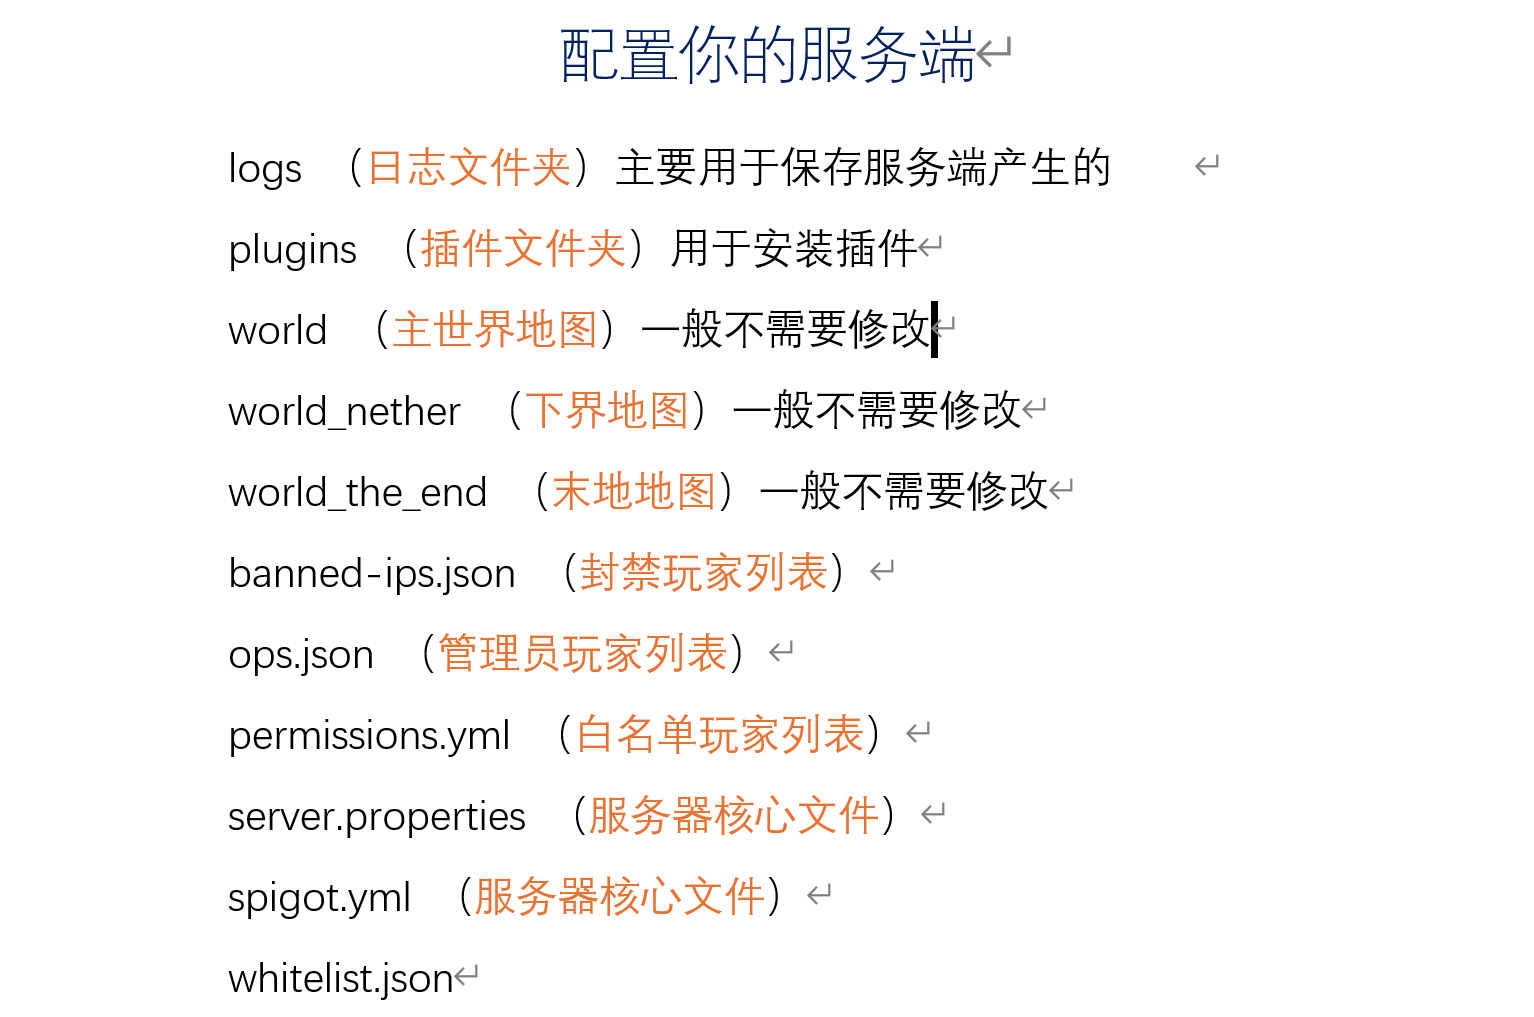
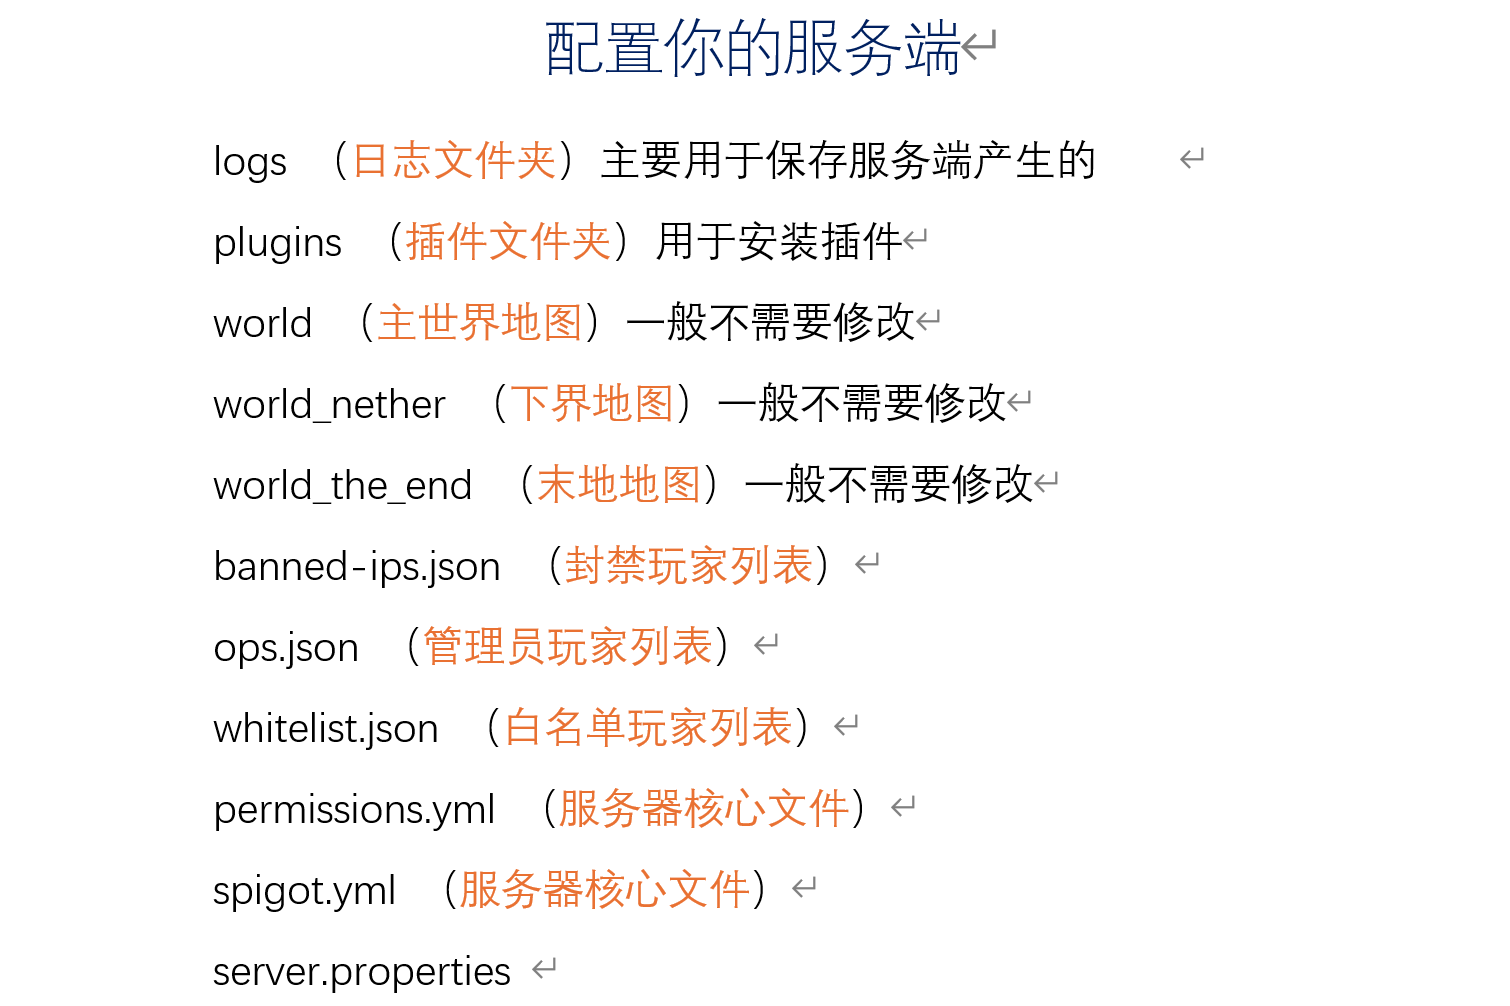
Site updated: 2025-04-01 18:14:56

diff --git a/2025/03/31/mc-server2/index.html b/2025/03/31/mc-server2/index.html
@@ -348,7 +348,6 @@
 <p>我会筛选出服务器根目录下重要的部分讲解</p>
 <div style="display: flex; gap: 10px;"><br>  <img src="/images/startdash/mc23.png" width="50%"><br></div>
 
-
 <p>1 .logs （日志文件夹）它主要用于保存服务端产生的记录，这包括聊天记录 使用过的指令和报错等</p>
 <p>2 .plugins （插件文件夹）用于安装插件，我们会在后面教程中详细讲到，如果你的核心支持mod，</p>
 <p>那在该目录下还会产生一个mods文件夹</p>
@@ -356,6 +355,12 @@
 <p>world （主世界地图）</p>
 <p>world_nether （下界地图）</p>
 <p>world_the_end （末地地图）</p>
+<p>4 .再来看文件部分，这三项都以json结尾，这代表它们都是数据文件，关于封禁等操作我们可以用指令来完成，</p>
+<p>不需要访问文件修改</p>
+<p>banned-ips.json （封禁玩家列表）</p>
+<p>ops.json （管理员玩家列表）</p>
+<p>whitelist.json （白名单玩家列表）</p>
+<p>4 .</p>
 
         </div>
         <!-- .entry-content -->
